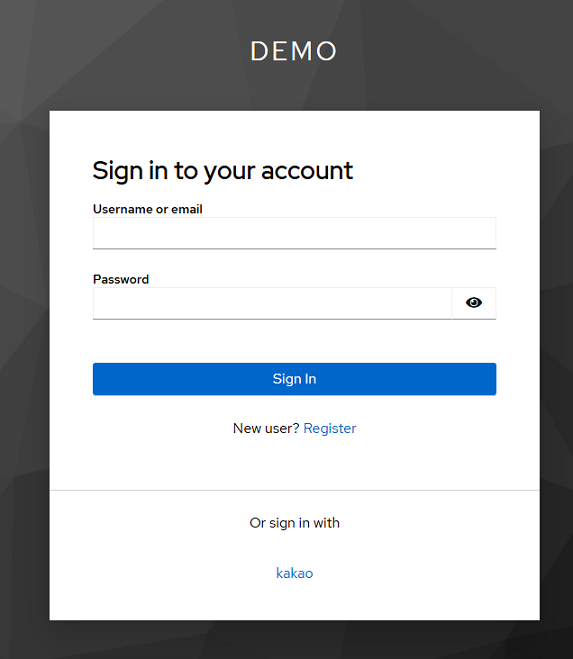
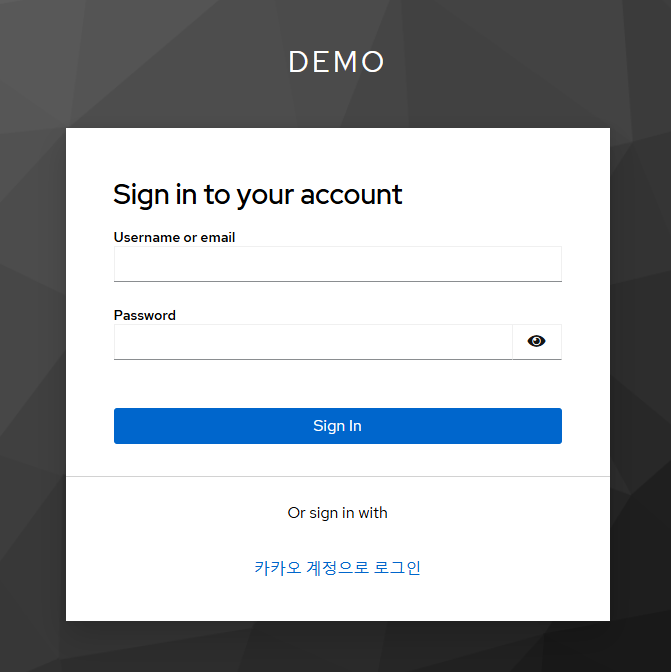
title: Keycloak - Kakao Identity Provider

diff --git a/source/_posts/keycloak-kakao-idp.md b/source/_posts/keycloak-kakao-idp.md
@@ -6,43 +6,55 @@ tags:
 - Kakao
 ---
 
-키클록(Keycloak)의 렐름(Realm)에 카카오를 IdP(Identity Provider)로 추가하고 카카오 계정으로 사용자 인증을 해보자. 카카오 소셜 프로바이더는 완전하지는 않지만 [OpenID Connect를 지원](https://developers.kakao.com/docs/latest/ko/kakaologin/utilize#oidc)한다. 따라서, <U>OpenID Connect v1.0</U> 를 추가하여 로그인 화면에 노출시킬 수 있다.
+통합 인증을 위한 IAM 오픈소스인 키클록(Keycloak)에서 카카오 소셜 프로바이더를 IdP(Identity Provider)로 렐름(Realm)에 추가하고 카카오 계정으로 로그인하여 사용자를 인증해보도록 하자. 우선 카카오 소셜 프로바이더는 [OpenID Connect](https://developers.kakao.com/docs/latest/ko/kakaologin/utilize#oidc) 규격을 지원하고 있으므로 키클록에서 기본적으로 제공해주고 있는 <U>OpenID Connect v1.0</U> 프로바이더 방식으로 추가하여 로그인 화면에 선택 옵션으로 노출시킬 수 있다.
 
-####  OpenID Connect Provider 추가
+#### 카카오 로그인을 위한 REST API 키와 클라이언트 시크릿
 
-OpenID Connect Provider 추가 시 <U>Discovery endpoint</U> 에 카카오 로그인의 [OpenID Connect Discovery Metadata](https://kauth.kakao.com/.well-known/openid-configuration) 주소를 입력하면 OpenID Connect 메타데이터를 불러와서 자동으로 입력해준다. 그리고 카카오 디펠로퍼스에서 REST API 키와 클라이언트 시크릿을 다음의 메뉴에서 확인하고 설정하자.
+우선, [카카오 디펠로퍼스](https://developers.kakao.com/)에 카카오 계정으로 로그인한 후 애플리케이션을 만들고 카카오 로그인에 대한 설정을 진행하자. 키클록에서 OpenID Connect Provider 설정에 입력할 클라이언트 아이디와 클라이언트 시크릿 정보를 다음의 메뉴에서 확인하도록 하자. 클라이언트 시크릿은 코드 교환 과정에서는 노출되지 않으며 사용자 인증 후 코드를 통해 ID 토큰을 발급받기 위해서 사용된다.
 
 - Client ID : 내 애플리케이션 → 앱 설정 → 앱 키 (REST API 키)
 - Client Secret : 내 애플리케이션 → 제품 설정 → 카카오 로그인 → 보안 (Client Secret)
+
+####  키클록에 카카오 OpenID Connect Provider 추가
+
+Identity Providers 목록에서 <U>OpenID Connect v1.0</U>을 선택하고 <U>Discovery endpoint</U> 에 카카오 로그인의 [OpenID Connect Discovery Metadata](https://kauth.kakao.com/.well-known/openid-configuration) 주소를 입력하게 되면 키클록에서는 OpenID Connect 메타데이터를 불러와서 자동으로 입력해준다. 그리고 앞서 카카오 디펠로퍼스에서 확인해두었던 REST API 키와 클라이언트 시크릿을 입력하도록 하자.
+
+- Client ID : 내 애플리케이션 → 앱 설정 → 앱 키 (REST API 키)
+- Client Secret : 내 애플리케이션 → 제품 설정 → 카카오 로그인 → 보안 (Client Secret)
+- Client assertion signature algorithm : RS256 (Optinal)
+
+> 카카오에서는 서명 알고리즘으로 RS256 한가지를 지원하므로 굳이 선택할 필요는 없습니다.
 
 ![](/images/posts/keycloak-kakao-idp/01.png)
 
 #### 카카오 로그인 OpenID Connect 활성화 설정 및 Redirect URI 추가
 
-카카오 로그인 제품 설정의 OpenID Connect 옵션을 활성화하고 키클록에 추가한 IdP에 표시되는 <U>Redirect URI</U> 주소를 카카오 로그인의 Redirect URI 목록에 추가하자.
+애플리케이션의 제품 설정에서 카카오 로그인과 OpenID Connect 옵션을 활성화하고 키클록에 추가한 IdP 브로커에 표시되는 <U>Redirect URI</U> 주소를 카카오 로그인의 Redirect URI 목록에 추가하면 된다. 
 
 ![](/images/posts/keycloak-kakao-idp/02.png)
 
-#### Authorization Code Flow with PKCE (Optional)
+#### 코드 교환 과정에서 PKCE 사용하기
 
-카카오 프로바이더에서는 <U>RS256</U> 알고리즘 과 <U>PKCE</U>를 지원한다. 단, PKCE 방식은 <U>S256</U>으로 지정되어야한다.
+카카오 소셜 프로바이더는 <U>S256 방식의 PKCE</U>를 지원하므로 코드 교환 과정(Authorization Code Flow)에서 PKCE를 사용할 수 있다. 
 
 ![](/images/posts/keycloak-kakao-idp/03.png)
 
-#### 사용자 콘솔 로그인 화면
+#### 사용자 콘솔 로그인 화면에서 카카오 계정으로 로그인
 
-카카오 IdP가 추가되었다면 <U>사용자 콘솔(account-console)</U>의 로그인 화면에 카카오 프로바이더가 옵션으로 표시되는 것을 확인할 수 있을 것이다. 
+카카오 로그인을 위한 IdP를 추가했으므로 <U>사용자 콘솔(account-console)</U>의 로그인 화면에 카카오 프로바이더가 옵션으로 표시된다.  사용자 콘솔의 로그인 화면에서 카카오 프로바이더 이름을 선택하면 카카오 계정 로그인 화면으로 리다이렉트되며 카카오 계정으로 로그인하고 동의 항목에 따라 진행하면 키클록 사용자로 추가된다. 만약, 아래와 같이 <U>카카오 계정(이메일)에 대한 수집 항목</U>에 동의했다면 사용자 이름과 이메일이 모두 이메일로 설정되며 사용자 정보 입력 단계없이 사용자가 만들어지고 사용자 콘솔 화면이 보인다.
 
 ![](/images/posts/keycloak-kakao-idp/04.png)
 
-#### 카카오 계정 로그인 화면
-
-사용자 콘솔의 로그인 화면에서 카카오 프로바이더 이름을 선택하면 카카오 계정 로그인 화면으로 리다이렉트되며 카카오 계정으로 로그인하고 동의 항목에 따라 진행하면 키클록 사용자로 추가된다. 만약, 아래와 같이 <U>카카오 계정(이메일)에 대한 수집 항목</U>에 동의했다면 사용자 이름과 이메일이 모두 이메일로 설정되며 사용자 정보 입력 단계없이 사용자가 만들어지고 사용자 콘솔 화면이 보인다.
-
-![](/images/posts/keycloak-kakao-idp/05.png)
-
 #### Add Identity Provider Mapper
 
-카카오 로그인에 대한 수집 항목에 따라 <U>User Attribute</U> 에 추가하는 것은 개별적인 테스트가 필요해보인다. 예를 들어, <U>Attribute Importer</U>를 통해 Username 를 지정하려고 할때 입력된 클레임 정보가 없다면 빈 값이 들어가서 로그인은 가능하지만 관리자 콘솔의 사용자 목록에서 상세 정보를 확인하거나 삭제하는 것이 불가능하더라.
+카카오 [ID 토큰 페이로드](https://developers.kakao.com/docs/latest/ko/kakaologin/rest-api#request-token-response-id-token)에는 수집 동의 항목에 따라 클레임이 포함되어 있는데 이것을 <U>User Attribute</U> 에 추가하기 위해서는 Mapper 설정이 필요하다. 
+
+- username : sub
+- nickname : nickname
+- email : email (기본값)
 
 ![](/images/posts/keycloak-kakao-idp/06.png)
+
+> 위와 같이 username 에 대한 Mapper 설정을 추가하지 않는다면 이메일 정보가 username 으로 설정되는 것을 확인할 수 있습니다. 이때, username 에 존재하지 않는 항목을 연결한다면 관리자 콘솔에서 상세 정보를 확인하거나 삭제가 불가능해질 수 있으니 주의가 필요합니다.
+
+![카카오 계정으로 추가된 사용자 정보](/images/posts/keycloak-kakao-idp/07.png)
